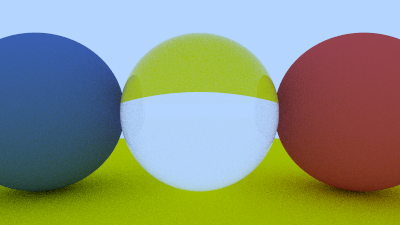
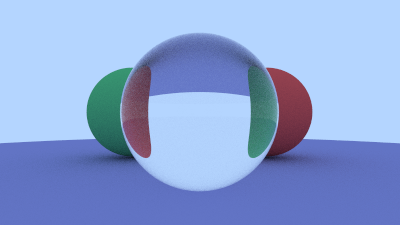
Change dielectricexample2

diff --git a/examples/dielectricexample2.cpp b/examples/dielectricexample2.cpp
@@ -23,8 +23,8 @@ int main() {
     std::shared_ptr<ShapeList> shape_list = std::make_shared<ShapeList>();
 
     auto material_ground
-        = std::make_shared<DiffuseMaterial>(Vec(0.8, 0.8, 0.0));
-    auto material_left = std::make_shared<DiffuseMaterial>(Vec(0.1, 0.2, 0.5));
+        = std::make_shared<DiffuseMaterial>(Vec(0.3, 0.3, 0.6));
+    auto material_left = std::make_shared<DiffuseMaterial>(Vec(0.1, 0.5, 0.2));
     auto material_right = std::make_shared<DiffuseMaterial>(Vec(0.7, 0.1, 0.1));
 
     auto material_glass = std::make_shared<DielectricMaterial>(1.5);
@@ -34,13 +34,13 @@ int main() {
     shape_list->add(std::make_shared<Sphere>(
         Vec(0.0, -100.5, -1.0), 100.0, material_ground));
     shape_list->add(
-        std::make_shared<Sphere>(Vec(-1.0, 0.0, -1.0), 0.5, material_left));
+        std::make_shared<Sphere>(Vec(-0.75, 0.0, -2.5), 0.5, material_left));
     shape_list->add(
-        std::make_shared<Sphere>(Vec(1.0, 0.0, -1.0), 0.5, material_right));
+        std::make_shared<Sphere>(Vec(0.75, 0.0, -2.5), 0.5, material_right));
 
     Scene scene(shape_list);
 
-    Raytracer raytracer(50, 100);
+    Raytracer raytracer(50, 200);
     // Raytracer raytracer(5); // debugging
 
     raytracer.set_background_color(Vec(0.5, 0.7, 1.0));

diff --git a/README.md b/README.md
@@ -17,13 +17,22 @@ A basic raytracer supporting diffuse, metal, and dielectric materials, textures,
 - Bounding volume hierarchy
 
 # Example Renders
+
+<img src="resources/examplerenders/randomspherescene.png" alt="random sphere scene" width="600">
+
+Random sphere scene from [Ray Tracing in One Weekend](https://raytracing.github.io/books/RayTracingInOneWeekend.html)
+
 ![cornell box](resources/examplerenders/boxexample.png)
 
 Cornell box with 600 samples per pixel
 
-![cornell box](resources/examplerenders/importexample.png)
+![owl model](resources/examplerenders/importexample.png)
 
-Imported owl model from [https://sketchfab.com/3d-models/owl-zun-wine-vessel-13th-12th-century-bce-ca77ae1351ca4b1c9a7d403e09e1c4af](https://sketchfab.com/3d-models/owl-zun-wine-vessel-13th-12th-century-bce-ca77ae1351ca4b1c9a7d403e09e1c4af)
+Imported [owl model](https://sketchfab.com/3d-models/owl-zun-wine-vessel-13th-12th-century-bce-ca77ae1351ca4b1c9a7d403e09e1c4af)
+
+![dielectric example](resources/examplerenders/dielectricexample2.png)
+
+Dielectric and diffuse materials
 
 # Build Instructions
 
